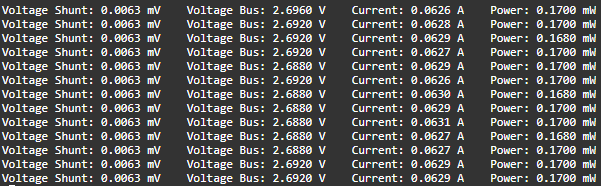
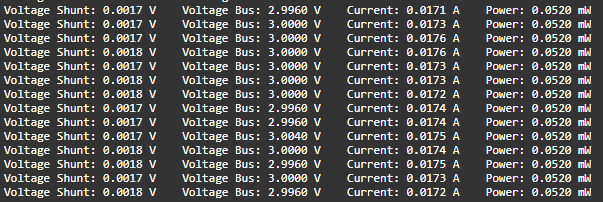
fix: правки в соответствии с изменениями архитектуры

diff --git a/js/module/ClassPowerINA219.js b/js/module/ClassPowerINA219.js
@@ -197,8 +197,6 @@ class ClassPowerINA219 extends ClassSensor {
 
         this._Config.maxCurrent = this._Config.maxCurrent || 3.2768;
         this._Config.rShunt = this._Config.rShunt || 0.1;
-        this._Config.currentLSB = (this._Config.maxCurrent * 3.0517578125 / 100000.0);
-        this._Sensor.Calibrate((Math.round(0.04096 / (this._Config.currentLSB * this._Config.rShunt))));
 
         this._Config.busVoltageRange = this._Config.busVoltageRange || 32;
         this._Config.gain = this._Config.gain || 320;
@@ -206,122 +204,86 @@ class ClassPowerINA219 extends ClassSensor {
         this._Config.shuntADC = this._Config.shuntADC || 12;
         this._Config.mode = this._Config.mode || 7;
 
-        this.SetBusVoltageRange(this._Config.busVoltageRange);
-        this.SetGain(this._Config.gain);
-        this.SetBusADC(this._Config.busADC);
-        this.SetShuntADC(this._Config.shuntADC);
-        this.SetSensorMode(this._Config.mode);
+        this.Calibrate(0, {amps: this._Config.maxCurrent, ohms: this._Config.rShunt});
+        this.Configure(0, this._Config);
     }
     /**
      * @method
-     * Устанавливает максимальную силу тока, перекалибровывая датчик
-     * @param {Number} _val     - значение максимальной силы тока в амперах
+     * Метод для калибровки датчика. Изменяет максимальное значение напряжения и сопротивление на шунте
+     * @param {Number} _num_channel     - номер канала датчика
+     * @param {Object} _clb             - объект с конфигурацией для калибровки
+     * @returns null                    - если был передан не объект, то возвращается пустота
      */
-    SetMaxCurrent(_amps) {
-        this._Config.maxCurrent = _amps || 3.2768;
-        this._Config.currentLSB = (this._Config.maxCurrent * 3.0517578125 / 100000.0);
-        this._Sensor.Calibrate((Math.round(0.04096 / (this._Config.currentLSB * this._Config.rShunt))));
-    }
-    /**
-     * @method
-     * Устанавливает значение сопротивления шунта, перекалибровывая датчик
-     * @param {Number} _val     - значение сопротивления в омах
-     */
-    SetShuntResist(_ohms) {
-        this._Config.rShunt = _ohms || 0.1;
-        this._Sensor.Calibrate((Math.round(0.04096 / (this._Config.currentLSB * this._Config.rShunt))));
-    }
-    /**
-     * @method
-     * Конфигурирует датчик, настраивает дапазон напряжения на шине
-     * @param {Number} _val        - значение диапазона в вольтах - 16 или 32
-     */
-    SetBusVoltageRange(_bvr) {
-        const bvr_values = [16, 32];
-        if (bvr_values.includes(_bvr)) {
-            this._Sensor.ConfigureBVR(_bvr);
-            this._Config.busVoltageRange = _bvr;
+    Calibrate(_num_channel, _clb) {
+        if (typeof _clb !== 'object') {return;}
+
+        // Значение максимальной силы тока в амперах
+        if (_clb.amps && typeof _clb.amps === 'number') {
+            this._Config.maxCurrent = _clb.amps || 3.2768;
+            this._Config.currentLSB = (this._Config.maxCurrent * 3.0517578125 / 100000.0);
+            this._Sensor.Calibrate((Math.round(0.04096 / (this._Config.currentLSB * this._Config.rShunt))));
+        }
+
+        // Значение сопротивления в омах
+        if (_clb.ohms && typeof _clb.ohms === 'number') {
+            this._Config.rShunt = _clb.ohms || 0.1;
+            this._Sensor.Calibrate((Math.round(0.04096 / (this._Config.currentLSB * this._Config.rShunt))));
         }
     }
     /**
      * @method
-     * Конфигурирует датчик, настраивает дапазон напряжения на шунте
-     * @param {Number} _val        - значение диапазона в миливольтах - 40, 80, 160 или 320
+     * Метод для настройки датчика. Изменяет диапазоны измерений, режимы работы сенсора и АЦП
+     * @param {Number} _num_channel     - номер канала датчика
+     * @param {Object} _cfg             - объект с конфигурацией 
+     * @returns null                    - если был передан не объект, то возвращается пустота
      */
-    SetGain(_gain) {
-        const gain_values = [40, 80, 160, 320];
-        if (gain_values.includes(_gain)) {
-            this._Sensor.ConfigureGain(_gain);
-            this._Config.gain = _gain;
+    Configure(_num_channel, _cfg) {
+        if (typeof _cfg !== 'object') {return;}
+
+        // Значение диапазона в вольтах - 16 или 32
+        if (_cfg.bvr) {
+            const bvr_values = [16, 32];
+            if (bvr_values.includes(_cfg.bvr)) {
+                this._Sensor.ConfigureBVR(_cfg.bvr);
+                this._Config.busVoltageRange = _cfg.bvr;
+            }
         }
-    }
-    /**
-     * @method
-     * Конфигурирует датчик, настраивает режим работы АЦП шины
-     * @param {Number} _val        - режим работы АЦП: разрядность или количество сэмплов
-     */
-    SetBusADC(_badc) {
-        const adc_values = [9, 10, 11, 12, 2, 4, 8, 16, 32, 64, 128];
-        if (adc_values.includes(_badc)) {
-            this._Sensor.ConfigureBusADC(_badc);
-            this._Config.busADC = _badc;
+
+        // Значение диапазона в миливольтах - 40, 80, 160 или 320
+        if (_cfg.gain) {
+            const gain_values = [40, 80, 160, 320];
+            if (gain_values.includes(_cfg.gain)) {
+                this._Sensor.ConfigureGain(_cfg.gain);
+                this._Config.gain = _cfg.gain;
+            }
         }
-    }
-    /**
-     * @method
-     * Конфигурирует датчик, настраивает режим работы АЦП шунта
-     * @param {Number} _val        - режим работы АЦП: разрядность или количество сэмплов
-     */
-    SetShuntADC(_sadc) {
-        const adc_values = [9, 10, 11, 12, 2, 4, 8, 16, 32, 64, 128];
-        if (adc_values.includes(_sadc)) {
-            this._Sensor.ConfigureShuntADC(_sadc);
-            this._Config.shuntADC = _sadc;
+
+        // Режим работы АЦП шины: разрядность или количество сэмплов
+        if (_cfg.badc) {
+            const adc_values = [9, 10, 11, 12, 2, 4, 8, 16, 32, 64, 128];
+            if (adc_values.includes(_cfg.badc)) {
+                this._Sensor.ConfigureBusADC(_cfg.badc);
+                this._Config.busADC = _cfg.badc;
+            }
         }
-    }
-    /**
-     * @method
-     * Конфигурирует датчик, настраивает режим работы датчика
-     * @param {Number} _val        - код режима - от 0 (выкл) до 7 (постоянное считывание)
-     */
-    SetSensorMode(_mode) {
-        const modes = [0, 1, 2, 3, 4, 5, 6, 7];
-        if (modes.includes(_mode)) {
-            this._Sensor.ConfigureMode(_mode);
-            this._Config.mode = _mode;
+
+        // Режим работы АЦП шунта: разрядность или количество сэмплов
+        if (_cfg.sadc) {
+            const adc_values = [9, 10, 11, 12, 2, 4, 8, 16, 32, 64, 128];
+            if (adc_values.includes(_cfg.sadc)) {
+                this._Sensor.ConfigureShuntADC(_cfg.sadc);
+                this._Config.shuntADC = _cfg.sadc;
+            }
         }
-    }
-    /**
-     * @method
-     * Возвращает напряжение на шунте в миливольтах
-     * @returns 
-     */
-    GetShuntVoltage() {
-        return this._Sensor.ReadShuntVoltageRaw() * 0.00001; 
-    }
-    /**
-     * @method
-     * Возвращает напряжение на шине в вольтах
-     * @returns 
-     */
-    GetBusVoltage() {
-        return this._Sensor.ReadBusVoltageRaw() * 0.004; 
-    }
-    /**
-     * @method
-     * Возвращает ток в амперах
-     * @returns 
-     */
-    GetCurrent() {
-        return this._Sensor.ReadCurrentRaw() * this._Config.currentLSB; 
-    }
-    /**
-     * @method
-     * Возвращает мощность в миниваттах
-     * @returns 
-     */
-    GetPower() {
-        return this._Sensor.ReadPowerRaw() * this._Config.currentLSB * 20; 
+
+        // Код режима - от 0 (выкл) до 7 (постоянное считывание)
+        if (_cfg.mode != null) {
+            const modes = [0, 1, 2, 3, 4, 5, 6, 7];
+            if (modes.includes(_cfg.mode)) {
+                this._Sensor.ConfigureMode(_cfg.mode);
+                this._Config.mode = _cfg.mode;
+            }
+        }
     }
     /**
      * @method
@@ -330,15 +292,14 @@ class ClassPowerINA219 extends ClassSensor {
      * @param {Number} _num_channel     - номер канала
      */
     Start(_num_channel, _period) {
-        let period = (typeof _period === 'number' & _period >= this._MinPeriod) ? _period    //частота сверяется с минимальной
-                 : this._MinPeriod;
-        this._ChStatus[_num_channel] = 1;
+        this._Channels[_num_channel].Status = 1;
         if (!this._Interval) {          //если в данный момент не ведется ни одного опроса
+            let period = (typeof _period === 'number' & _period >= this._MinPeriod) ? _period : this._MinPeriod;
             this._Interval = setInterval(() => {
-                if (this._ChStatus[0]) this.Ch0_Value = this.GetShuntVoltage();
-                if (this._ChStatus[1]) this.Ch1_Value = this.GetBusVoltage();
-                if (this._ChStatus[2]) this.Ch2_Value = this.GetCurrent();
-                if (this._ChStatus[3]) this.Ch3_Value = this.GetPower();
+                if (this._Channels[0].Status) this._Channels[0].Value = this._Sensor.ReadShuntVoltageRaw() * 0.00001;
+                if (this._Channels[1].Status) this._Channels[1].Value = this._Sensor.ReadBusVoltageRaw() * 0.004;
+                if (this._Channels[2].Status) this._Channels[2].Value = this._Sensor.ReadCurrentRaw() * this._Config.currentLSB;
+                if (this._Channels[3].Status) this._Channels[3].Value = this._Sensor.ReadPowerRaw() * this._Config.currentLSB * 20;
             }, period);
         }
     }

diff --git a/js/module/ClassPowerINA219.min.js b/js/module/ClassPowerINA219.min.js
@@ -1,1 +1,1 @@
-class LowLevelClassINA{constructor(_bus,_address){this._I2c=_bus,this._Address=_address||64}ReadWord(_reg){this._I2c.writeTo(this._Address,128|_reg);const data=this._I2c.readFrom(this._Address,2);return data[0]<<8|data[1]}WriteWord(_reg,_data){this._I2c.writeTo(this._Address,[_reg,_data>>8,_data])}WhoIam(_wai){return this.ReadWord(0)!==(_wai||14751)}Reset(){this.WriteWord(0,32768)}Calibrate(_val){this.WriteWord(5,_val)}UnsignedToSigned(_val){return 32768&_val?_val-65536:_val}ReadShuntVoltageRaw(){return this.UnsignedToSigned(this.ReadWord(1))}ReadBusVoltageRaw(){return this.ReadWord(2)>>3}ReadPowerRaw(){return this.ReadWord(3)}ReadCurrentRaw(){return this.UnsignedToSigned(this.ReadWord(4))}ConfigureBVR(_val){let cfg=this.ReadWord(0);cfg&=57343,32==_val&&(cfg|=8192),this.WriteWord(0,cfg)}ConfigureGain(_val){let cfg=this.ReadWord(0);const pga={40:0,80:2048,160:4096,320:6144};cfg&=59391,cfg|=pga[_val],this.WriteWord(0,cfg)}ConfigureBusADC(_val){let cfg=this.ReadWord(0);const adc={9:0,10:128,11:256,12:384,2:1152,4:1280,8:1408,16:1536,32:1664,64:1792,128:1920};cfg&=63615,cfg|=adc[_val],this.WriteWord(0,cfg)}ConfigureShuntADC(_val){let cfg=this.ReadWord(0);const adc={9:0,10:128,11:256,12:384,2:1152,4:1280,8:1408,16:1536,32:1664,64:1792,128:1920};cfg&=65415,cfg|=adc[_val]>>4,this.WriteWord(0,cfg)}ConfigureMode(_val){let cfg=this.ReadWord(0);cfg&=65528,cfg|=_val,this.WriteWord(0,cfg)}}class ClassPowerINA219 extends ClassSensor{constructor(_opts){ClassSensor.call(this,_opts),this._Name="ClassPowerINA219",this._Sensor=new LowLevelClassINA(_opts.bus,_opts.address),this._Config=_opts.config||{},this._MinPeriod=20,this._Interval,this.Init()}Init(){if(this._Sensor.Reset(),this._Sensor.WhoIam(this._Config.WAI))throw new Error("INA219 not found!");this._Config.maxCurrent=this._Config.maxCurrent||3.2768,this._Config.rShunt=this._Config.rShunt||.1,this._Config.currentLSB=3.0517578125*this._Config.maxCurrent/1e5,this._Sensor.Calibrate(Math.round(.04096/(this._Config.currentLSB*this._Config.rShunt))),this._Config.busVoltageRange=this._Config.busVoltageRange||32,this._Config.gain=this._Config.gain||320,this._Config.busADC=this._Config.busADC||12,this._Config.shuntADC=this._Config.shuntADC||12,this._Config.mode=this._Config.mode||7,this.SetBusVoltageRange(this._Config.busVoltageRange),this.SetGain(this._Config.gain),this.SetBusADC(this._Config.busADC),this.SetShuntADC(this._Config.shuntADC),this.SetSensorMode(this._Config.mode)}SetMaxCurrent(_amps){this._Config.maxCurrent=_amps||3.2768,this._Config.currentLSB=3.0517578125*this._Config.maxCurrent/1e5,this._Sensor.Calibrate(Math.round(.04096/(this._Config.currentLSB*this._Config.rShunt)))}SetShuntResist(_ohms){this._Config.rShunt=_ohms||.1,this._Sensor.Calibrate(Math.round(.04096/(this._Config.currentLSB*this._Config.rShunt)))}SetBusVoltageRange(_bvr){const bvr_values=[16,32];bvr_values.includes(_bvr)&&(this._Sensor.ConfigureBVR(_bvr),this._Config.busVoltageRange=_bvr)}SetGain(_gain){const gain_values=[40,80,160,320];gain_values.includes(_gain)&&(this._Sensor.ConfigureGain(_gain),this._Config.gain=_gain)}SetBusADC(_badc){const adc_values=[9,10,11,12,2,4,8,16,32,64,128];adc_values.includes(_badc)&&(this._Sensor.ConfigureBusADC(_badc),this._Config.busADC=_badc)}SetShuntADC(_sadc){const adc_values=[9,10,11,12,2,4,8,16,32,64,128];adc_values.includes(_sadc)&&(this._Sensor.ConfigureShuntADC(_sadc),this._Config.shuntADC=_sadc)}SetSensorMode(_mode){const modes=[0,1,2,3,4,5,6,7];modes.includes(_mode)&&(this._Sensor.ConfigureMode(_mode),this._Config.mode=_mode)}GetShuntVoltage(){return 1e-5*this._Sensor.ReadShuntVoltageRaw()}GetBusVoltage(){return.004*this._Sensor.ReadBusVoltageRaw()}GetCurrent(){return this._Sensor.ReadCurrentRaw()*this._Config.currentLSB}GetPower(){return this._Sensor.ReadPowerRaw()*this._Config.currentLSB*20}Start(_num_channel,_period){let period="number"==typeof _period&_period>=this._MinPeriod?_period:this._MinPeriod;this._ChStatus[_num_channel]=1,this._Interval||(this._Interval=setInterval(()=>{this._ChStatus[0]&&(this.Ch0_Value=this.GetShuntVoltage()),this._ChStatus[1]&&(this.Ch1_Value=this.GetBusVoltage()),this._ChStatus[2]&&(this.Ch2_Value=this.GetCurrent()),this._ChStatus[3]&&(this.Ch3_Value=this.GetPower())},period))}ChangeFreq(_num_channel,freq){clearInterval(this._Interval),setTimeout(()=>this.Start(freq),this._MinPeriod)}Stop(_num_channel){this._ChStatus[_num_channel]=0,0==this._ChStatus[0]&&0==this._ChStatus[1]&&0==this._ChStatus[2]&&0==this._ChStatus[3]&&(clearInterval(this._Interval),this._Interval=null)}}exports=ClassPowerINA219;
+class LowLevelClassINA{constructor(_bus,_address){this._I2c=_bus,this._Address=_address||64}ReadWord(_reg){this._I2c.writeTo(this._Address,128|_reg);const data=this._I2c.readFrom(this._Address,2);return data[0]<<8|data[1]}WriteWord(_reg,_data){this._I2c.writeTo(this._Address,[_reg,_data>>8,_data])}WhoIam(_wai){return this.ReadWord(0)!==(_wai||14751)}Reset(){this.WriteWord(0,32768)}Calibrate(_val){this.WriteWord(5,_val)}UnsignedToSigned(_val){return 32768&_val?_val-65536:_val}ReadShuntVoltageRaw(){return this.UnsignedToSigned(this.ReadWord(1))}ReadBusVoltageRaw(){return this.ReadWord(2)>>3}ReadPowerRaw(){return this.ReadWord(3)}ReadCurrentRaw(){return this.UnsignedToSigned(this.ReadWord(4))}ConfigureBVR(_val){let cfg=this.ReadWord(0);cfg&=57343,32==_val&&(cfg|=8192),this.WriteWord(0,cfg)}ConfigureGain(_val){let cfg=this.ReadWord(0);const pga={40:0,80:2048,160:4096,320:6144};cfg&=59391,cfg|=pga[_val],this.WriteWord(0,cfg)}ConfigureBusADC(_val){let cfg=this.ReadWord(0);const adc={9:0,10:128,11:256,12:384,2:1152,4:1280,8:1408,16:1536,32:1664,64:1792,128:1920};cfg&=63615,cfg|=adc[_val],this.WriteWord(0,cfg)}ConfigureShuntADC(_val){let cfg=this.ReadWord(0);const adc={9:0,10:128,11:256,12:384,2:1152,4:1280,8:1408,16:1536,32:1664,64:1792,128:1920};cfg&=65415,cfg|=adc[_val]>>4,this.WriteWord(0,cfg)}ConfigureMode(_val){let cfg=this.ReadWord(0);cfg&=65528,cfg|=_val,this.WriteWord(0,cfg)}}class ClassPowerINA219 extends ClassSensor{constructor(_opts){ClassSensor.call(this,_opts),this._Name="ClassPowerINA219",this._Sensor=new LowLevelClassINA(_opts.bus,_opts.address),this._Config=_opts.config||{},this._MinPeriod=20,this._Interval,this.Init()}Init(){if(this._Sensor.Reset(),this._Sensor.WhoIam(this._Config.WAI))throw new Error("INA219 not found!");this._Config.maxCurrent=this._Config.maxCurrent||3.2768,this._Config.rShunt=this._Config.rShunt||.1,this._Config.busVoltageRange=this._Config.busVoltageRange||32,this._Config.gain=this._Config.gain||320,this._Config.busADC=this._Config.busADC||12,this._Config.shuntADC=this._Config.shuntADC||12,this._Config.mode=this._Config.mode||7,this.Calibrate(0,{amps:this._Config.maxCurrent,ohms:this._Config.rShunt}),this.Configure(0,this._Config)}Calibrate(_num_channel,_clb){"object"==typeof _clb&&(_clb.amps&&"number"==typeof _clb.amps&&(this._Config.maxCurrent=_clb.amps||3.2768,this._Config.currentLSB=3.0517578125*this._Config.maxCurrent/1e5,this._Sensor.Calibrate(Math.round(.04096/(this._Config.currentLSB*this._Config.rShunt)))),_clb.ohms&&"number"==typeof _clb.ohms&&(this._Config.rShunt=_clb.ohms||.1,this._Sensor.Calibrate(Math.round(.04096/(this._Config.currentLSB*this._Config.rShunt)))))}Configure(_num_channel,_cfg){if("object"==typeof _cfg){if(_cfg.bvr){const bvr_values=[16,32];bvr_values.includes(_cfg.bvr)&&(this._Sensor.ConfigureBVR(_cfg.bvr),this._Config.busVoltageRange=_cfg.bvr)}if(_cfg.gain){const gain_values=[40,80,160,320];gain_values.includes(_cfg.gain)&&(this._Sensor.ConfigureGain(_cfg.gain),this._Config.gain=_cfg.gain)}if(_cfg.badc){const adc_values=[9,10,11,12,2,4,8,16,32,64,128];adc_values.includes(_cfg.badc)&&(this._Sensor.ConfigureBusADC(_cfg.badc),this._Config.busADC=_cfg.badc)}if(_cfg.sadc){const adc_values=[9,10,11,12,2,4,8,16,32,64,128];adc_values.includes(_cfg.sadc)&&(this._Sensor.ConfigureShuntADC(_cfg.sadc),this._Config.shuntADC=_cfg.sadc)}if(null!=_cfg.mode){const modes=[0,1,2,3,4,5,6,7];modes.includes(_cfg.mode)&&(this._Sensor.ConfigureMode(_cfg.mode),this._Config.mode=_cfg.mode)}}}Start(_num_channel,_period){if(this._Channels[_num_channel].Status=1,!this._Interval){let period="number"==typeof _period&_period>=this._MinPeriod?_period:this._MinPeriod;this._Interval=setInterval(()=>{this._Channels[0].Status&&(this._Channels[0].Value=1e-5*this._Sensor.ReadShuntVoltageRaw()),this._Channels[1].Status&&(this._Channels[1].Value=.004*this._Sensor.ReadBusVoltageRaw()),this._Channels[2].Status&&(this._Channels[2].Value=this._Sensor.ReadCurrentRaw()*this._Config.currentLSB),this._Channels[3].Status&&(this._Channels[3].Value=this._Sensor.ReadPowerRaw()*this._Config.currentLSB*20)},period)}}ChangeFreq(_num_channel,freq){clearInterval(this._Interval),setTimeout(()=>this.Start(freq),this._MinPeriod)}Stop(_num_channel){this._ChStatus[_num_channel]=0,0==this._ChStatus[0]&&0==this._ChStatus[1]&&0==this._ChStatus[2]&&0==this._ChStatus[3]&&(clearInterval(this._Interval),this._Interval=null)}}exports=ClassPowerINA219;

diff --git a/js/app/index.js b/js/app/index.js
@@ -7,7 +7,7 @@ try {
 
   // Вывод данных
   setInterval(() => {
-    console.log(`Voltage Shunt: ${(ina[0].Value).toFixed(4)} mV    Voltage Bus: ${(ina[1].Value).toFixed(4)} V    Current: ${(ina[2].Value).toFixed(4)} A    Power: ${(ina[3].Value).toFixed(4)} mW`);
+    console.log(`Voltage Shunt: ${(ina[0].Value).toFixed(4)} V    Voltage Bus: ${(ina[1].Value).toFixed(4)} V    Current: ${(ina[2].Value).toFixed(4)} A    Power: ${(ina[3].Value).toFixed(4)} mW`);
   }, 1000);
 }
 catch (e) {

diff --git a/README.md b/README.md
@@ -82,17 +82,8 @@ ID конфигурации должен быть строкой, предста
 <div style = "color: #555">
 
 - <mark style="background-color: lightblue">Init()</mark> - метод обязывающий провести инициализацию датчика с переданной конфигурацией и калибровкой или со значениями по умолчанию;
-- <mark style="background-color: lightblue">SetMaxCurrent(_amps)</mark> - устанавливает максимальное значение силы тока (в амперах), одновременно корректируя калибровочные значения;
-- <mark style="background-color: lightblue">SetShuntResist(_ohms)</mark> - устанавливает сопротивление шунта (в омах), одновременно корректируя калибровочные значения;
-- <mark style="background-color: lightblue">SetBusVoltageRange(_bvr)</mark> - устанавливает измеряемый диапазон на шине, принимает значения 16 и 32, другие игнорирует;
-- <mark style="background-color: lightblue">SetGain(_gain)</mark> - устанавливает масштабирование на шунте, принимает значения 40, 80, 160 и 320, другие игнорирует;
-- <mark style="background-color: lightblue">SetBusADC(_badc)</mark> - устанавливает режим работы АЦП при работе с напряжением шины, принимает значения 9, 10, 11, 12, 2, 4, 8, 16, 32, 64 и 128, другие игнорирует;
-- <mark style="background-color: lightblue">SetShuntADC(_sadc)</mark> - устанавливает режим работы АЦП при работе с напряжением на шунте, принимает значения 9, 10, 11, 12, 2, 4, 8, 16, 32, 64 и 128, другие игнорирует;
-- <mark style="background-color: lightblue">SetSensorMode(_mode)</mark> - режим работы датчика, принимает целые значения от 0 до 8, другие игнорирует;
-- <mark style="background-color: lightblue">GetShuntVoltage()</mark> - возвращает значение напряжения на шунте в миливольтах;
-- <mark style="background-color: lightblue">GetBusVoltage()</mark> - возвращает значение напряжения на шине в вольтах;
-- <mark style="background-color: lightblue">GetCurrent()</mark> - возвращает значение силы тока в амперах;
-- <mark style="background-color: lightblue">GetPower()</mark> - возвращает значение мощности в ваттах;
+- <mark style="background-color: lightblue">Calibrate(_clb)</mark> - калибрует датчик, устанавливаея максимальное значение силы тока (в амперах) и сопротивление шунта (в омах). Принимает объект с полями amps и ohms;
+- <mark style="background-color: lightblue">Configure(_cfg)</mark> - конфигурирует датчик, устанавливая измеряемый диапазон на шине, масштабирование на шунте, режим работы АЦП при работе с напряжением шины и шунта, режим работы датчика. Принимает объект с полями bvr (принимает значения 16 и 32), gain (начения 40, 80, 160 и 320), badc (АЦП шины - значения 9, 10, 11, 12, 2, 4, 8, 16, 32, 64 и 128), sadc (АЦП шунта - значения 9, 10, 11, 12, 2, 4, 8, 16, 32, 64 и 128), и mode (целые значения от 0 до 8). Все поля являются необязательными;
 - <mark style="background-color: lightblue">Start(_num_channel, _period)</mark> - метод запускает циклический опрос определенного канала датчика с заданной периодичностью в мс. Переданное значение периода сверяется с минимальным значением, хранящимся в поле *_MinPeriod*, и, если требуется, регулируется;
 - <mark style="background-color: lightblue">ChangeFreq(_num_channel, _period)</mark> - метод останавливает опрос указанного канала и запускает его вновь с уже новой частотой.
 - <mark style="background-color: lightblue">Stop(_num_channel)</mark> - метод прекращает считывание значений с заданного канала.
@@ -128,7 +119,7 @@ ID конфигурации должен быть строкой, предста
 ### Возвращаемые данные
 <div style = "color: #555">
 
-Датчик предоставляет данные о напряжении тока в вольтах (V) на шине, и в миливольтах (mV) на шунте, силе тока в амперах (A) и мощности в миливаттах (mW).
+Датчик предоставляет сырые данные через методы низкоуровнего класса. Для перевода напряжения на шине в вольты (V), необходимо умножить полученное значение на _0.004_ - перевод миливольт в вольты плюс смещение. Для перевода напряжения шунта в вольты - полученное значение умножить на _0.00001_. Сила тока переводится в амперы (A) путём умножения на переменную currentLSB, которое по умолчанию равно _0.0001_. Мощность в миливаттах (mW) получается путём умножения полученного сырого значения на 20 * currentLSB.
 </div>
 
 ### Примеры
@@ -146,7 +137,7 @@ try {
 
   // Вывод данных
   setInterval(() => {
-    console.log(`Voltage Shunt: ${(ina[0].Value).toFixed(4)} mV    Voltage Bus: ${(ina[1].Value).toFixed(4)} V    Current: ${(ina[2].Value).toFixed(4)} A    Power: ${(ina[3].Value).toFixed(4)} mW`);
+    console.log(`Voltage Shunt: ${(ina[0].Value).toFixed(4)} V    Voltage Bus: ${(ina[1].Value).toFixed(4)} V    Current: ${(ina[2].Value).toFixed(4)} A    Power: ${(ina[3].Value).toFixed(4)} mW`);
   }, 1000);
 }
 catch (e) {
